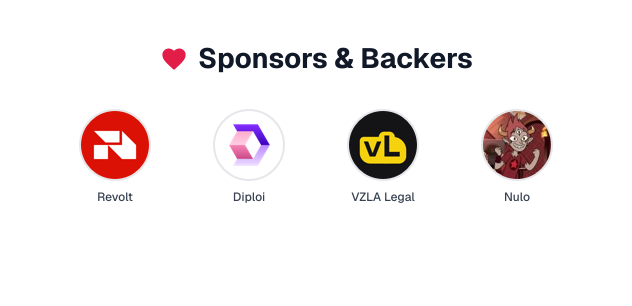
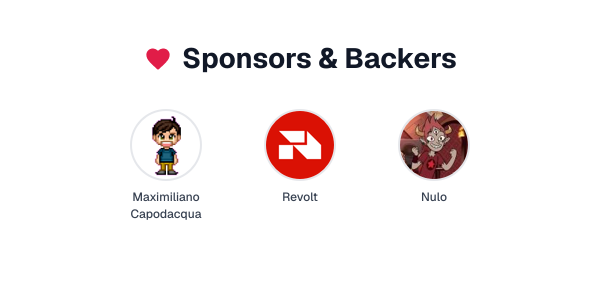
chore: update sponsors

diff --git a/BACKERS.md b/BACKERS.md
@@ -5,17 +5,13 @@ Thank you to all my sponsors! Your support keeps this work going. 🙏
 > Sponsor me at [github.com/sponsors/enzonotario](https://github.com/sponsors/enzonotario)
 
 <!-- sponsors -->
+| [![Maximiliano Capodacqua](https://avatars.githubusercontent.com/u/56036762?u=aeba100ff34de3923d6e3a70d29c86a52aefb0d6&v=4&s=80)](https://github.com/maxicapodacqua) |
+| :---: |
+| [Maximiliano Capodacqua](https://github.com/maxicapodacqua) |
+
 | [![Revolt](https://argentinadatos.com/assets/sponsors/revolt.png&s=80)](https://revolt.digital/) |
 | :---: |
 | [Revolt](https://revolt.digital/) |
-
-| [![Diploi](https://argentinadatos.com/assets/sponsors/diploi.png&s=80)](https://diploi.com/) |
-| :---: |
-| [Diploi](https://diploi.com/) |
-
-| [![VZLA Legal](https://vzlalegal.com/favicon.png&s=80)](https://vzlalegal.com/) |
-| :---: |
-| [VZLA Legal](https://vzlalegal.com/) |
 
 | [![Nulo](https://avatars.githubusercontent.com/u/86896666?u=d8beeebb5fce73f8d6d9ec6b27cedb5eaa5a1644&v=4&s=80)](https://github.com/catdevnull) |
 | :---: |
